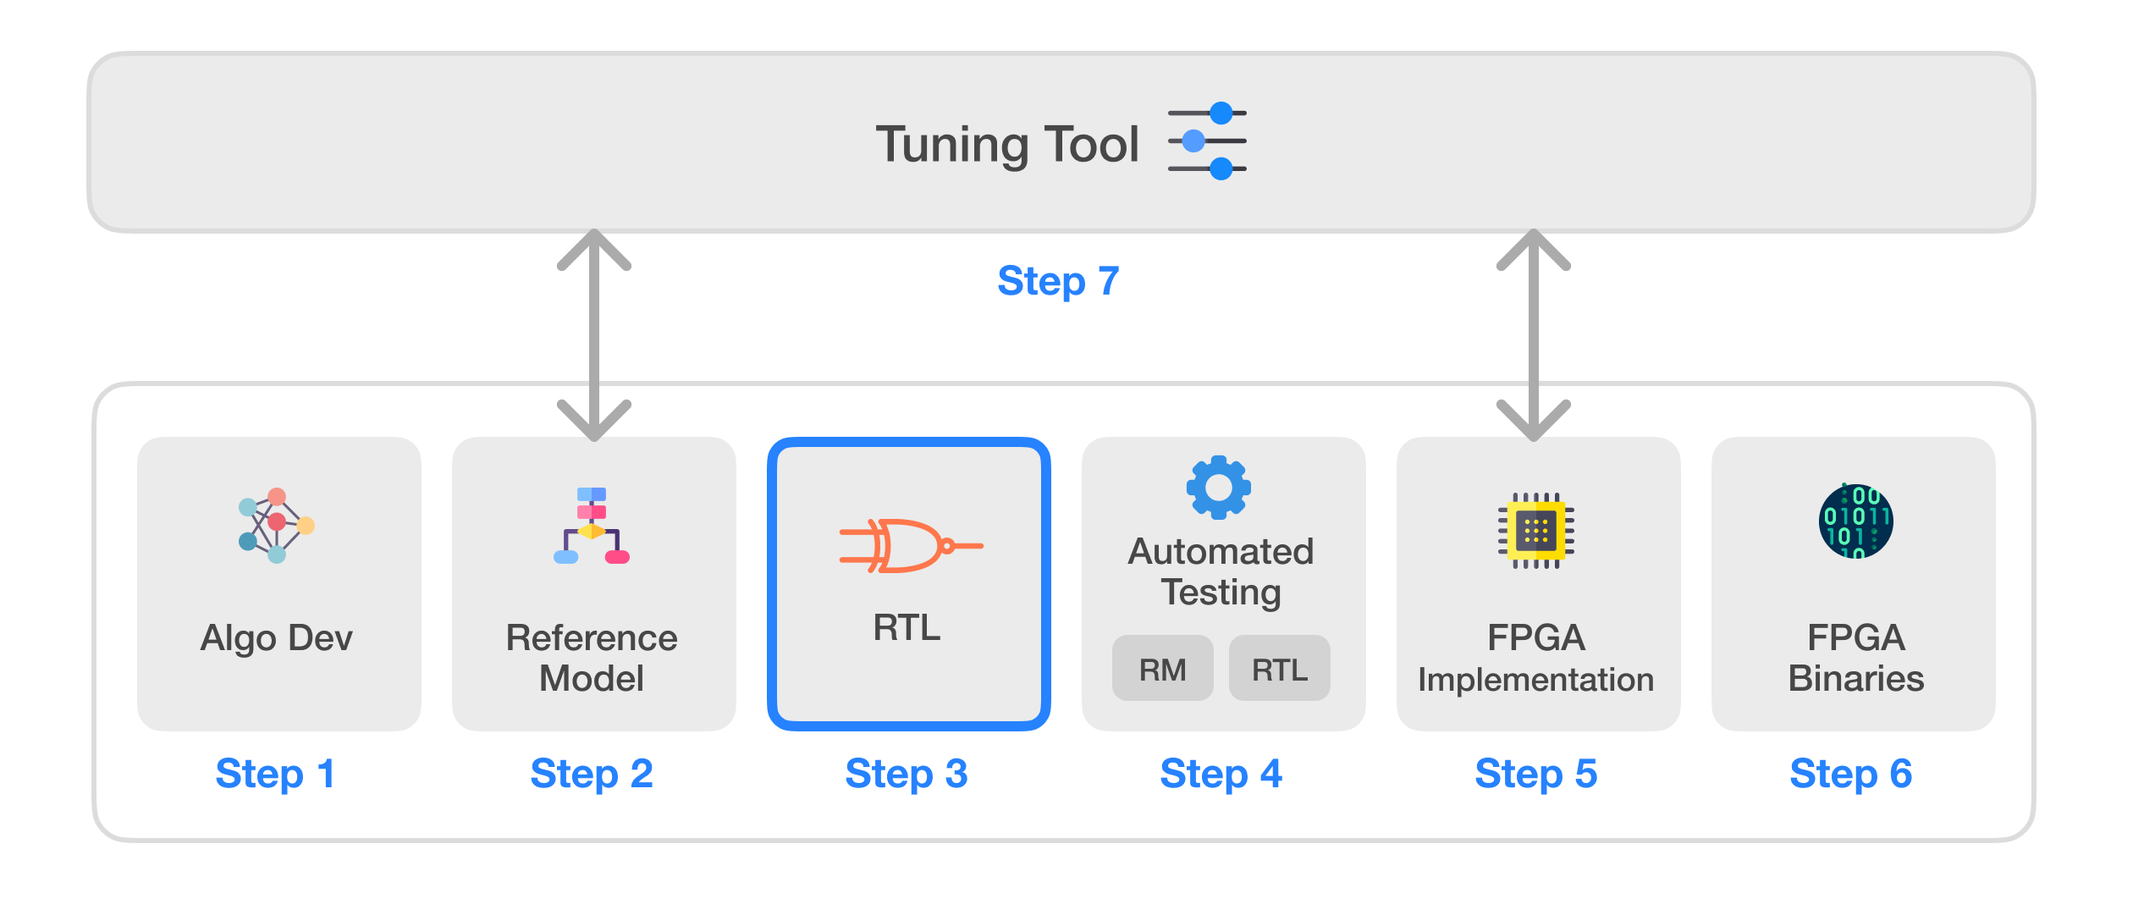
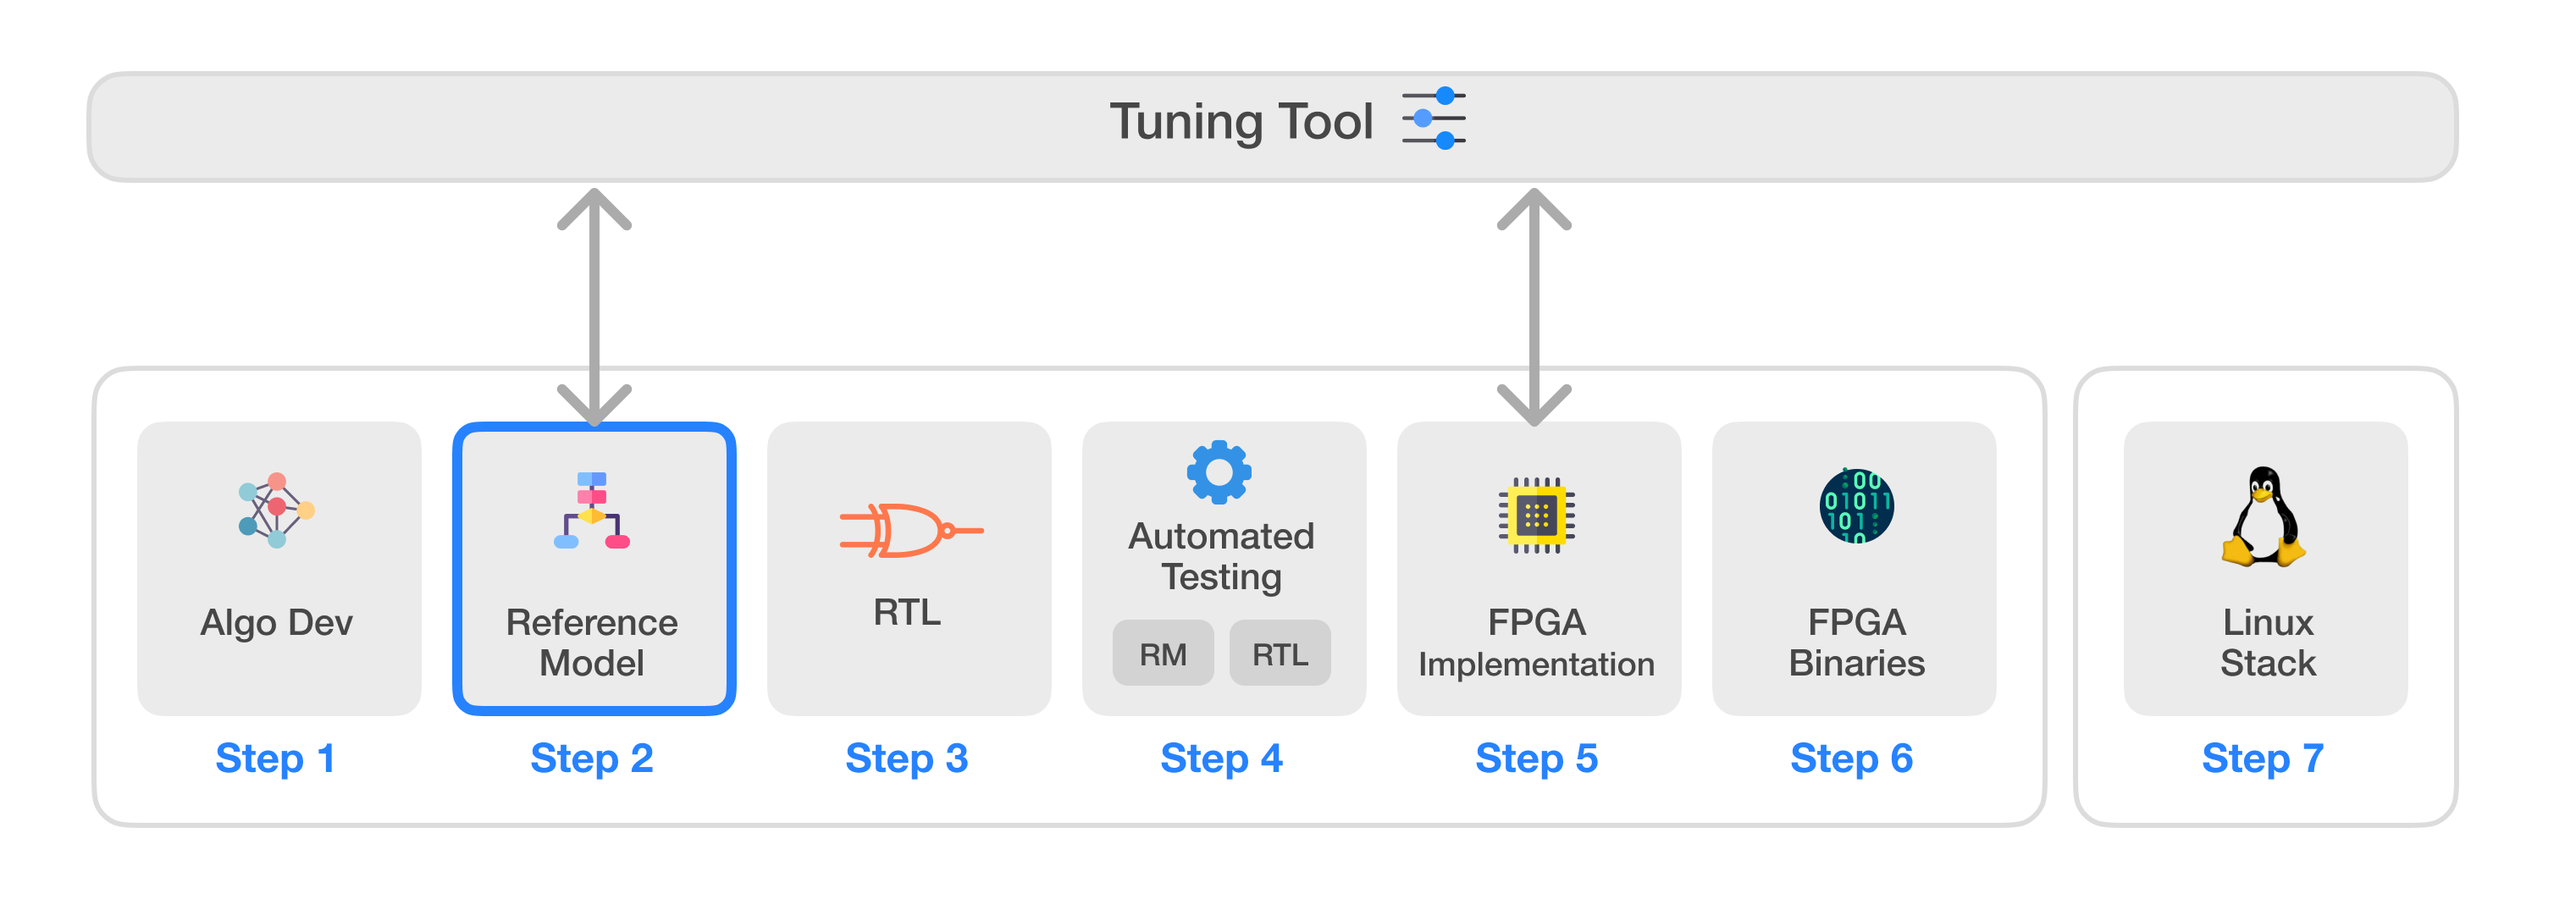
Updated README File -Added modified repos flow diagram. -Explained different components of this project and  their current status.

diff --git a/README.md b/README.md
@@ -1,25 +1,38 @@
 
 # Infinite-ISP
-Infinite-ISP is a full-stack ISP development platform - from algorithm development to RTL design, FPGA/ASIC implementation, and associated firmware, tools, etc. It offers a unified platform that empowers ISP developers to accelerate ISP innovation. It includes a complete collection of camera pipeline modules written in Python, its associated fixed-point reference model, an optimized RTL design, an FPGA bitstream & the associated Firmware for the implementation of the pipeline on the Kria KV260 development board, and lastly, a stand-alone Python-based Tuning Tool application for the pipeline. The main components of the Infinite-ISP project are listed below:
+Infinite-ISP is a full-stack ISP development platform designed for all aspects of a hardware ISP. It includes a collection of camera pipeline modules written in Python, a fixed-point reference model, an optimized RTL design, an FPGA integration framework and its associated firmware ready for Xilinx® Kria KV260 development board. The platform features a stand-alone Python-based Tuning Tool that allows tuning of ISP parameters for different sensors and applications. Finally, it also offers a software solution for Linux by providing required drivers and a custom application development stack to bring Infinite-ISP to the Linux platforms.
 
-![](doc/assets/Infinite-ISP_Repo_Flow.png)
+
+![](docs/assets/Infinite-ISP_Repo_Flow.png)
 
 | Sr.     | Repository name        | Description      | 
 |---------| -------------  | ------------- |
 | 1  | **[Infinite-ISP_AlgorithmDesign](https://github.com/10x-Engineers/Infinite-ISP)**   | Python based model of the Infinite-ISP pipeline for algorithm development |
-| 2  | **[Infinite-ISP_ReferenceModel](https://github.com/10x-Engineers/Infinite-ISP_ReferenceModel)**                      | Python based fixed-point model of the Infinite-ISP pipeline for hardware implementation |
-| 3  | **[Infinite-ISP_RTL](https://github.com/10x-Engineers/Infinite-ISP_RTL)** | RTL Verilog design of the image signal processor based on the Reference Model **[(Request Access)](https://docs.google.com/forms/d/e/1FAIpQLSfOIldU_Gx5h1yQEHjGbazcUu0tUbZBe0h9IrGcGljC5b4I-g/viewform?usp=sharing)** |
-| 4  | **[Infinite-ISP_Automated_Testing](https://github.com/10x-Engineers/Infinite-ISP_Automated_Testing)** | A framework to enable the automated block and multi-block level testing of the image signal processor to ensure a bit accurate design |
-| 5  | **FPGA Implementation** | FPGA implementation of Infinite-ISP on <br>  <ul><li>Xilinx® Kria KV260’s XCK26 Zynq UltraScale + MPSoC **[Infinite-ISP_FPGA_XCK26](https://github.com/10x-Engineers/Infinite-ISP_FPGA_XCK26)**</li></ul>   |
+| 2  | **[Infinite-ISP_ReferenceModel](https://github.com/10x-Engineers/Infinite-ISP_ReferenceModel)**  :anchor:   | Python based fixed-point model of the Infinite-ISP pipeline for hardware implementation |
+| 3  | **[Infinite-ISP_RTL](https://github.com/10x-Engineers/Infinite-ISP_RTL)**  | RTL Verilog design of the image signal processor based on the Reference Model |
+| 4  | **[Infinite-ISP_AutomatedTesting](https://github.com/10x-Engineers/Infinite-ISP_AutomatedTesting)** | A framework to enable the automated block and multi-block level testing of the image signal processor to ensure a bit accurate design |
+| 5  | **FPGA Implementation**  | FPGA implementation of Infinite-ISP on <br>  <ul><li>Xilinx® Kria KV260’s XCK26 Zynq UltraScale + MPSoC **[Infinite-ISP_FPGA_XCK26](https://github.com/10x-Engineers/Infinite-ISP_FPGA_XCK26)** </li></ul>   |
 | 6  | **[Infinite-ISP_FPGABinaries](https://github.com/10x-Engineers/Infinite-ISP_FPGABinaries)**         | FPGA binaries (bitstream + firmware executable) for the Xilinx® Kria KV260’s XCK26 Zynq UltraScale + MPSoC|
 | 7  | **[Infinite-ISP_TuningTool](https://github.com/10x-Engineers/Infinite-ISP_TuningTool)**                              | Collection of calibration and analysis tools for the Infinite-ISP |
-| 8  | **[Infinite-ISP_LinuxCameraStack](https://github.com/10x-Engineers/Infinite-ISP_LinuxCameraStack.git)** :anchor: | Linux-based camera stack developed using the libcamera platform and integrated the Infinite-ISP for the Xilinx® Kria board. |
+| 8  | **[Infinite-ISP_LinuxCameraStack](https://github.com/10x-Engineers/Infinite-ISP_LinuxCameraStack.git)** | Extending Linux support to Infinite-ISP and the developement of Linux-based camera application stack |
 
+**[Request Access](https://docs.google.com/forms/d/e/1FAIpQLSfOIldU_Gx5h1yQEHjGbazcUu0tUbZBe0h9IrGcGljC5b4I-g/viewform?usp=sharing)** to **Infinite-ISP_RTL, Infinite-ISP_AutomatedTesting** and **Infinite-ISP_FPGA_XCK26** repositories
 
 # Infinite-ISP Linux Based Camera Stack
-A camera stack featuring libcamera-based applications, utilizing Infinite-ISP on the Xilinx® Kria KV260’s XCK26 Zynq UltraScale + MPSoC.
+## Overview
+The **Infinite-ISP Linux-Based Camera Stack** is an open-source platform for camera application development on Linux, leveraging the ***libcamera*** framework for custom camera applications in user space. It utilizes the Infinite-ISP on the Xilinx Kria KV260's XCK Zynq UltraScale+ MPSoC.
 
-Comming Soon!
+**Note:** This project is currently under development and is open for contributions.
+
+It consists of three main components:
+
+* **Custom Camera Applications:** Built an application using libcamera framework capable of capturing single and multiple consecutive frames.
+
+* **Infinite-ISP Driver:** The driver is currently under development and we are seeking open-source contributions for writing this driver.
+
+* **FPGA Implementation:** Implemented Infinite-ISP on FPGA of Xilinx® Kria KV260’s XCK26 Zynq UltraScale + MPSoC.
+
+Together, these components enable any libcamera-based camera application to operate on the Infinite-ISP FPGA hardware using Linux.  
 
 ## License 
 This project is licensed under Apache 2.0 (see [LICENSE](LICENSE) file).
